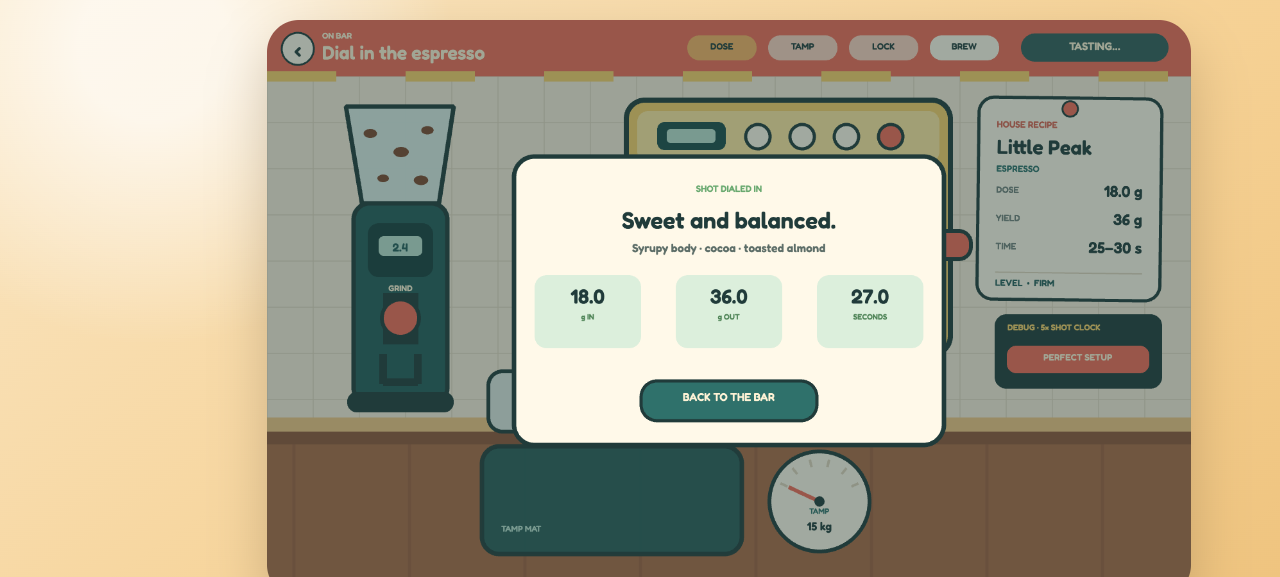
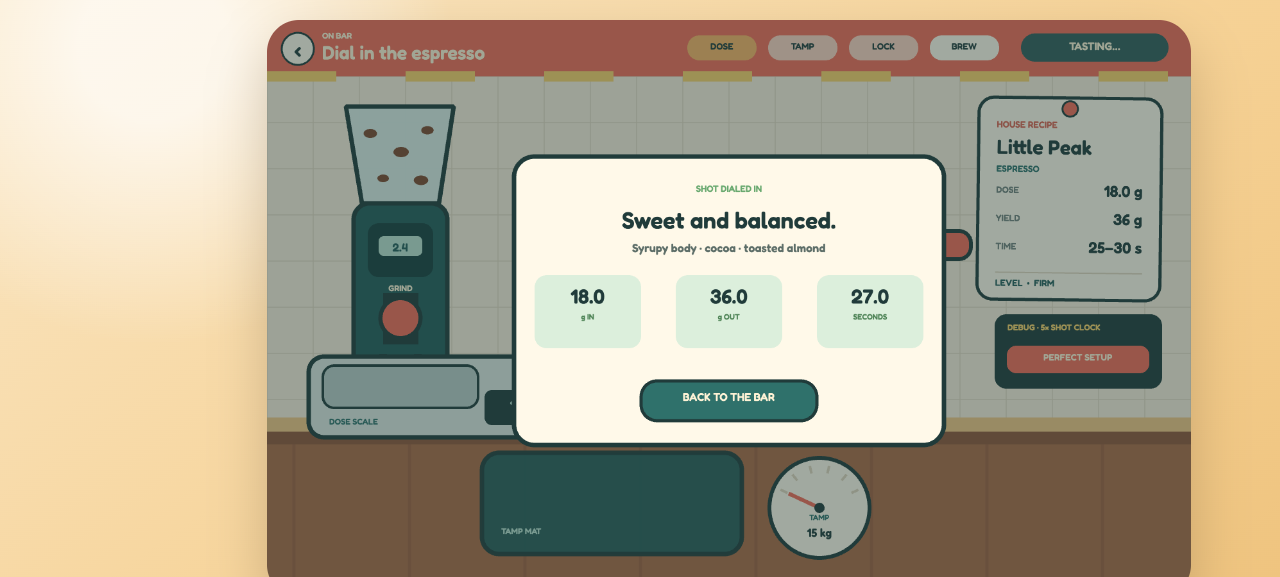
aug11: clarify espresso station interactions

diff --git a/aug11/src/espresso.ts b/aug11/src/espresso.ts
@@ -45,6 +45,7 @@ export class EspressoScene extends Phaser.Scene {
   private shotTimeText!: Phaser.GameObjects.Text
   private yieldText!: Phaser.GameObjects.Text
   private grinderButton!: Phaser.GameObjects.Arc
+  private grindStream!: Phaser.GameObjects.Graphics
   private grounds!: Phaser.GameObjects.Graphics
   private portafilter!: Phaser.GameObjects.Container
   private tamper!: Phaser.GameObjects.Container
@@ -59,6 +60,10 @@ export class EspressoScene extends Phaser.Scene {
 
   constructor() {
     super('espresso')
+  }
+
+  preload() {
+    this.load.image('espresso-machine-detail', '/assets/espresso-machine-v2.png')
   }
 
   create() {
@@ -96,6 +101,7 @@ export class EspressoScene extends Phaser.Scene {
     if (this.step === 'dose' && this.grinding) {
       this.dose = Math.min(22, this.dose + seconds * 5.2)
       this.drawGrounds()
+      this.drawGrinding()
       this.updateUi()
       if (this.dose >= 22) this.grinding = false
     }
@@ -236,6 +242,8 @@ export class EspressoScene extends Phaser.Scene {
     fork.lineBetween(165, 386, 165, 433)
     fork.lineBetween(111, 430, 165, 430)
     grinder.add(fork)
+    this.grindStream = this.add.graphics().setDepth(7)
+    this.tweens.add({ targets: this.grinderButton, scale: 1.1, duration: 620, yoyo: true, repeat: -1, ease: 'Sine.InOut' })
 
     this.grinderButton.on('pointerdown', () => {
       if (this.step !== 'dose') return
@@ -245,82 +253,76 @@ export class EspressoScene extends Phaser.Scene {
   }
 
   private drawMachine() {
-    const machine = this.add.container(560, 125)
-    const g = this.add.graphics()
-    g.fillStyle(colors.mustard)
-    g.lineStyle(8, colors.ink)
-    g.fillRoundedRect(0, 0, 505, 397, 29)
-    g.strokeRoundedRect(0, 0, 505, 397, 29)
-    g.fillStyle(0xffe7a0)
-    g.fillRoundedRect(17, 17, 471, 80, 17)
-    g.fillStyle(colors.teal)
-    g.fillRoundedRect(17, 102, 471, 245, 9)
-    g.fillStyle(0x1b4c4a)
-    g.fillRoundedRect(48, 34, 107, 44, 12)
-    g.fillStyle(colors.mint)
-    g.fillRoundedRect(63, 45, 76, 22, 6)
-    g.fillStyle(colors.ink)
-    g.fillEllipse(252, 224, 154, 55)
-    g.fillRoundedRect(183, 198, 138, 40, 13)
-    g.fillStyle(colors.steel)
-    g.fillEllipse(252, 226, 118, 34)
-    g.lineStyle(6, colors.ink)
-    g.strokeEllipse(252, 226, 118, 34)
-    g.fillStyle(0xeef2ed)
-    g.fillRect(18, 347, 469, 34)
-    g.strokeRect(18, 347, 469, 34)
-    g.lineStyle(3, colors.steelDark)
-    for (let x = 34; x < 480; x += 24) g.lineBetween(x, 356, x + 10, 372)
-    machine.add(g)
+    this.add.image(812, 400, 'espresso-machine-detail').setDisplaySize(535, 428).setDepth(1)
 
-    machine.add(this.addText(101, 48, '93°', 17, colors.mint).setOrigin(0.5, 0))
-    machine.add(this.addText(252, 116, 'LITTLE PEAK  /  02', 13, colors.cream).setOrigin(0.5, 0))
+    this.brewButton = this.add.circle(898, 278, 25, colors.coral, 0.16)
+      .setStrokeStyle(5, colors.coral, 0.78)
+      .setDepth(9)
+      .setInteractive({ useHandCursor: true })
 
-    for (let x = 205; x <= 413; x += 69) {
-      const button = this.add.circle(x, 57, 19, colors.paper).setStrokeStyle(5, colors.ink)
-      machine.add(button)
-    }
-    this.brewButton = machine.list[machine.list.length - 1] as Phaser.GameObjects.Arc
-    this.brewButton.setFillStyle(colors.coral).setInteractive({ useHandCursor: true })
-
-    this.groupGlow = this.add.circle(812, 351, 75, colors.mustard, 0).setStrokeStyle(8, colors.coral, 0)
+    this.groupGlow = this.add.circle(812, 351, 72, colors.mustard, 0).setStrokeStyle(8, colors.coral, 0)
     this.groupGlow.setDepth(10)
-
     this.lockGuide = this.add.graphics().setDepth(12).setVisible(false)
 
-    const cup = this.add.container(812, 472)
+    const shotScale = this.add.container(812, 548).setDepth(5)
+    const scaleG = this.add.graphics()
+    scaleG.fillStyle(colors.steel)
+    scaleG.lineStyle(6, colors.ink)
+    scaleG.fillRoundedRect(-111, -38, 222, 82, 20)
+    scaleG.strokeRoundedRect(-111, -38, 222, 82, 20)
+    scaleG.fillStyle(0xb8cac5)
+    scaleG.fillRoundedRect(-92, -52, 184, 25, 10)
+    scaleG.lineStyle(4, colors.ink)
+    scaleG.strokeRoundedRect(-92, -52, 184, 25, 10)
+    scaleG.fillStyle(colors.ink)
+    scaleG.fillRoundedRect(-91, -16, 84, 40, 9)
+    scaleG.fillRoundedRect(7, -16, 84, 40, 9)
+    shotScale.add(scaleG)
+    shotScale.add(this.addText(-49, 27, 'TIME', 11, colors.teal).setOrigin(0.5, 0))
+    shotScale.add(this.addText(49, 27, 'YIELD', 11, colors.teal).setOrigin(0.5, 0))
+    this.shotTimeText = this.addText(-49, -9, '0.0', 22, colors.mint).setOrigin(0.5, 0)
+    this.yieldText = this.addText(49, -9, '0.0', 22, colors.mustard).setOrigin(0.5, 0)
+    shotScale.add([this.shotTimeText, this.yieldText])
+
+    const cup = this.add.container(812, 437).setDepth(7)
     const cupG = this.add.graphics()
     cupG.fillStyle(colors.cream)
-    cupG.lineStyle(7, colors.ink)
-    cupG.fillRoundedRect(-61, 0, 122, 100, 19)
-    cupG.strokeRoundedRect(-61, 0, 122, 100, 19)
-    cupG.strokeCircle(72, 43, 31)
+    cupG.lineStyle(6, colors.ink)
+    cupG.fillRoundedRect(-49, 0, 98, 76, 16)
+    cupG.strokeRoundedRect(-49, 0, 98, 76, 16)
+    cupG.strokeCircle(59, 32, 23)
     cupG.fillStyle(0xe1c79b)
-    cupG.fillEllipse(0, 4, 108, 24)
+    cupG.fillEllipse(0, 3, 88, 20)
     cup.add(cupG)
-    this.crema = this.add.ellipse(0, 4, 101, 19, colors.brown).setVisible(false)
+    this.crema = this.add.ellipse(0, 3, 82, 15, colors.brown).setVisible(false)
     cup.add(this.crema)
 
     this.streams = this.add.graphics().setDepth(11)
-
-    const display = this.roundedRect(590, 539, 445, 67, 18, colors.ink)
-    this.shotTimeText = this.addText(619, 551, '0.0 s', 30, colors.mint)
-    this.yieldText = this.addText(1005, 551, '0.0 g', 30, colors.mustard).setOrigin(1, 0)
-    this.addText(812, 568, '•', 18, colors.steelDark).setOrigin(0.5, 0)
   }
 
   private drawWorktop() {
-    const mat = this.roundedRect(335, 665, 405, 168, 27, colors.deepTeal, colors.ink, 7)
+    const doseScale = this.add.container(65, 525).setDepth(2)
+    const scaleG = this.add.graphics()
+    scaleG.fillStyle(colors.steel)
+    scaleG.lineStyle(7, colors.ink)
+    scaleG.fillRoundedRect(0, 0, 445, 126, 24)
+    scaleG.strokeRoundedRect(0, 0, 445, 126, 24)
+    scaleG.fillStyle(0xb8cac5)
+    scaleG.fillRoundedRect(22, 14, 242, 66, 18)
+    scaleG.lineStyle(4, colors.ink)
+    scaleG.strokeRoundedRect(22, 14, 242, 66, 18)
+    scaleG.fillStyle(colors.ink)
+    scaleG.fillRoundedRect(274, 52, 150, 55, 12)
+    doseScale.add(scaleG)
+    doseScale.add(this.addText(32, 94, 'DOSE SCALE', 13, colors.teal))
+    this.scaleText = this.addText(349, 61, '0.0 g', 28, colors.mint).setOrigin(0.5, 0)
+    doseScale.add(this.scaleText)
+
+    const mat = this.roundedRect(335, 675, 405, 158, 27, colors.deepTeal, colors.ink, 7)
     mat.setAlpha(0.96)
-    this.addText(365, 786, 'TAMP MAT', 13, colors.mint)
+    this.addText(365, 790, 'TAMP MAT', 13, colors.mint)
 
-    const scale = this.roundedRect(345, 548, 350, 94, 22, colors.steel, colors.ink, 6)
-    scale.setDepth(2)
-    const screen = this.roundedRect(503, 570, 158, 48, 12, colors.ink)
-    screen.setDepth(3)
-    this.scaleText = this.addText(582, 577, '0.0 g', 26, colors.mint).setOrigin(0.5, 0).setDepth(4)
-
-    const gauge = this.add.container(778, 668)
+    const gauge = this.add.container(778, 678)
     const gg = this.add.graphics()
     gg.fillStyle(colors.paper)
     gg.lineStyle(6, colors.ink)
@@ -341,7 +343,7 @@ export class EspressoScene extends Phaser.Scene {
   }
 
   private drawPortafilter() {
-    this.portafilter = this.add.container(436, 584).setDepth(8)
+    this.portafilter = this.add.container(208, 565).setDepth(8)
     const shadow = this.add.ellipse(45, 14, 270, 48, colors.ink, 0.18)
     const g = this.add.graphics()
     g.fillStyle(colors.steel)
@@ -385,6 +387,7 @@ export class EspressoScene extends Phaser.Scene {
     this.input.on('pointerup', () => {
       if (this.grinding) {
         this.grinding = false
+        this.grindStream.clear()
         this.grinderButton.setFillStyle(colors.coral)
         if (this.dose >= 16.5) this.completeDose()
       }
@@ -394,7 +397,10 @@ export class EspressoScene extends Phaser.Scene {
     })
 
     this.input.on('dragstart', (_pointer: Phaser.Input.Pointer, object: Phaser.GameObjects.GameObject) => {
-      if (object === this.tamper && this.step === 'tamp') this.tamping = true
+      if (object === this.tamper && this.step === 'tamp') {
+        this.tweens.killTweensOf(this.tamper)
+        this.tamping = true
+      }
     })
 
     this.input.on('drag', (pointer: Phaser.Input.Pointer, object: Phaser.GameObjects.GameObject, dragX: number, dragY: number) => {
@@ -435,9 +441,19 @@ export class EspressoScene extends Phaser.Scene {
 
   private completeDose() {
     this.step = 'tamp'
-    this.portafilter.setPosition(470, 735)
     this.portafilter.disableInteractive()
-    this.tamper.setPosition(470, 680).setVisible(true)
+    this.tamper.setPosition(470, 680).setVisible(false)
+    this.tweens.add({
+      targets: this.portafilter,
+      x: 470,
+      y: 735,
+      duration: 520,
+      ease: 'Cubic.Out',
+      onComplete: () => {
+        this.tamper.setVisible(true)
+        this.tweens.add({ targets: this.tamper, y: 690, duration: 430, yoyo: true, repeat: -1, ease: 'Sine.InOut' })
+      },
+    })
     this.updateUi()
   }
 
@@ -549,6 +565,17 @@ export class EspressoScene extends Phaser.Scene {
     card.add(this.addText(x, y + 18, label, 12, good ? 0x4f8457 : colors.coralDark).setOrigin(0.5, 0))
   }
 
+  private drawGrinding() {
+    this.grindStream.clear()
+    this.grindStream.lineStyle(7, colors.brown, 0.82)
+    this.grindStream.lineBetween(201, 501, 206, 548)
+    this.grindStream.fillStyle(0xa76639, 0.95)
+    for (let i = 0; i < 7; i++) {
+      const y = 505 + ((this.dose * 17 + i * 11) % 40)
+      this.grindStream.fillCircle(201 + (i % 3) * 4, y, 2)
+    }
+  }
+
   private drawGrounds() {
     this.grounds.clear()
     if (this.dose <= 0) return
@@ -588,11 +615,11 @@ export class EspressoScene extends Phaser.Scene {
     this.streams.clear()
     if (this.step !== 'brewing') return
     this.streams.lineStyle(7, colors.brown, 0.95)
-    this.streams.lineBetween(790, 378, 792, 475)
-    this.streams.lineBetween(834, 378, 832, 475)
+    this.streams.lineBetween(790, 378, 792, 439)
+    this.streams.lineBetween(834, 378, 832, 439)
     this.streams.lineStyle(2, colors.mustard, 0.8)
-    this.streams.lineBetween(788, 381, 790, 474)
-    this.streams.lineBetween(832, 381, 830, 474)
+    this.streams.lineBetween(788, 381, 790, 438)
+    this.streams.lineBetween(832, 381, 830, 438)
     this.crema.setScale(Phaser.Math.Clamp(this.yieldGrams / 12, 0.1, 1))
   }
 
@@ -600,8 +627,8 @@ export class EspressoScene extends Phaser.Scene {
     if (!this.statusText) return
     this.scaleText.setText(`${this.dose.toFixed(1)} g`)
     this.pressureText.setText(`${this.tampForce.toFixed(0)} kg`)
-    this.shotTimeText.setText(`${this.shotSeconds.toFixed(1)} s`)
-    this.yieldText.setText(`${this.yieldGrams.toFixed(1)} g`)
+    this.shotTimeText.setText(this.shotSeconds.toFixed(1))
+    this.yieldText.setText(this.yieldGrams.toFixed(1))
 
     const current = this.step === 'dose' ? 0 : this.step === 'tamp' ? 1 : ['place', 'lock'].includes(this.step) ? 2 : 3
     this.stepPills.forEach((pill, index) => {
@@ -610,18 +637,18 @@ export class EspressoScene extends Phaser.Scene {
     })
 
     if (this.step === 'dose') {
-      this.statusText.setText(this.dose < 16.5 ? 'HOLD TO GRIND' : `${this.dose.toFixed(1)} g  •  RELEASE`)
+      this.statusText.setText(this.dose < 16.5 ? 'HOLD GRIND TO 18.0' : `${this.dose.toFixed(1)} g  •  RELEASE`)
       this.scaleText.setColor(css(Math.abs(this.dose - 18) <= 0.5 ? colors.mustard : colors.mint))
     } else if (this.step === 'tamp') {
-      this.statusText.setText(this.tampForce < 8 ? 'TAMP LEVEL + FIRM' : `${this.tampForce.toFixed(0)} kg  •  RELEASE`)
+      this.statusText.setText(this.tampForce < 8 ? 'DRAG TAMP DOWN' : `${this.tampForce.toFixed(0)} kg  •  RELEASE`)
     } else if (this.step === 'place') {
-      this.statusText.setText('GROUP HEAD')
+      this.statusText.setText('DRAG TO GROUP')
     } else if (this.step === 'lock') {
       this.statusText.setText('TURN TO LOCK')
     } else if (this.step === 'ready') {
-      this.statusText.setText('READY')
+      this.statusText.setText('PRESS BREW')
     } else if (this.step === 'brewing') {
-      this.statusText.setText('STOP THE SHOT')
+      this.statusText.setText('STOP AT 36.0 g')
     } else {
       this.statusText.setText('TASTING…')
     }
